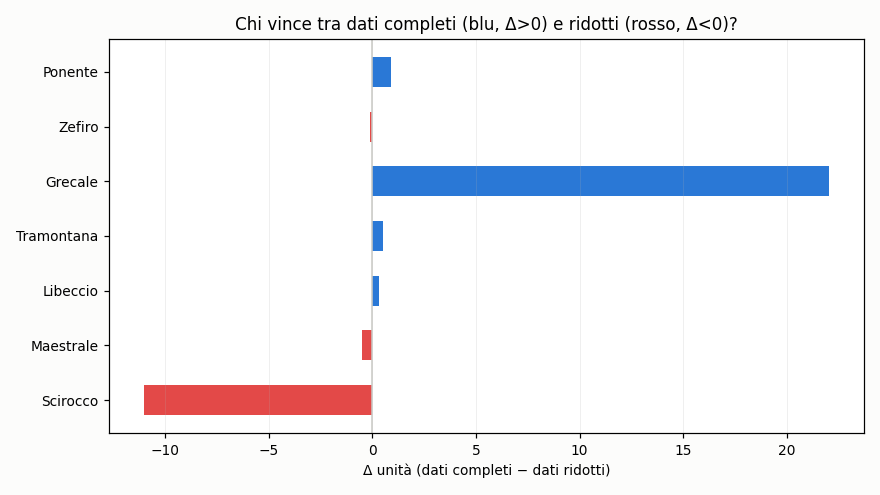
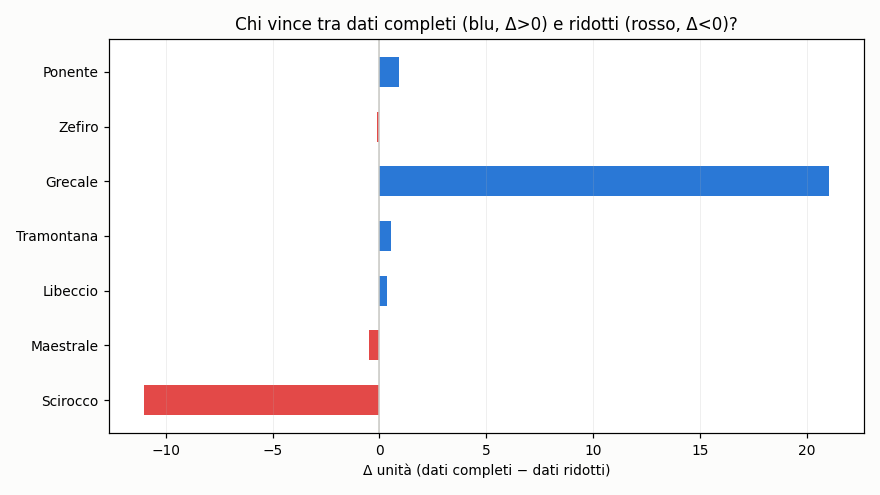
aggiornamento 2026-07-27 18:01 UTC

diff --git a/README.md b/README.md
@@ -37,9 +37,9 @@ scala in unità). Non indichiamo quale.
 
 ## Grafici
 
-![Coppie: dati completi vs ridotti](https://raw.githubusercontent.com/Kitem19/ippica-track-record/main/charts/equity_pairs.png?v=361692e1)
+![Coppie: dati completi vs ridotti](https://raw.githubusercontent.com/Kitem19/ippica-track-record/main/charts/equity_pairs.png?v=13d0af9d)
 
-![Delta per coppia](https://raw.githubusercontent.com/Kitem19/ippica-track-record/main/charts/coppie_delta.png?v=5c75f9a8)
+![Delta per coppia](https://raw.githubusercontent.com/Kitem19/ippica-track-record/main/charts/coppie_delta.png?v=a13e7739)
 
 ### Come leggere i grafici
 
@@ -60,7 +60,7 @@ _Poche giornate: numeri ancora rumorosi, si conclude a fine fase (31/7)._
 - **Maestrale**: in sostanziale pareggio — troppo presto per dire
 - **Libeccio**: in sostanziale pareggio — troppo presto per dire
 - **Tramontana**: in sostanziale pareggio — troppo presto per dire
-- **Grecale**: dati completi avanti di 22,0u
+- **Grecale**: dati completi avanti di 21,0u
 - **Zefiro**: in sostanziale pareggio — troppo presto per dire
 - **Ponente**: in sostanziale pareggio — troppo presto per dire
 
@@ -68,22 +68,22 @@ _Poche giornate: numeri ancora rumorosi, si conclude a fine fase (31/7)._
 
 | Sistema | Cassa (u) | P/L (u) | Selezioni | Escluse | Stato |
 |---|---|---|---|---|---|
-| Grecale | 21,8 | +1,8 | 321 | 4 | 🟢 |
-| Scirocco-B | 11,0 | -9,0 | 250 | 1 | ⏸ |
-| Maestrale-B | 0,0 | -20,0 | 100 | 254 | 🛑 |
-| Ponente | 0,0 | -20,0 | 213 | 37 | 🛑 |
-| Scirocco | 0,0 | -20,1 | 80 | 279 | 🛑 |
+| Grecale | 20,8 | +0,8 | 322 | 4 | 🟢 |
+| Scirocco-B | 11,0 | -9,0 | 250 | 2 | ⏸ |
+| Maestrale-B | 0,0 | -20,0 | 100 | 255 | 🛑 |
+| Ponente | 0,0 | -20,0 | 213 | 38 | 🛑 |
+| Scirocco | 0,0 | -20,1 | 80 | 280 | 🛑 |
 | Grecale-B | 0,0 | -20,2 | 137 | 183 | 🛑 |
-| Tramontana | 0,0 | -20,3 | 45 | 319 | 🛑 |
-| Zefiro-B | 0,0 | -20,5 | 143 | 81 | 🛑 |
-| Maestrale | 0,0 | -20,5 | 104 | 272 | 🛑 |
-| Zefiro | 0,0 | -20,6 | 268 | 15 | 🛑 |
-| Libeccio | 0,0 | -20,6 | 181 | 178 | 🛑 |
-| Tramontana-B | 0,0 | -20,8 | 324 | 27 | 🛑 |
-| Libeccio-B | 0,0 | -20,9 | 119 | 195 | 🛑 |
-| Ponente-B | 0,0 | -21,0 | 63 | 99 | 🛑 |
+| Tramontana | 0,0 | -20,3 | 45 | 320 | 🛑 |
+| Zefiro-B | 0,0 | -20,5 | 143 | 82 | 🛑 |
+| Maestrale | 0,0 | -20,5 | 104 | 273 | 🛑 |
+| Zefiro | 0,0 | -20,6 | 268 | 16 | 🛑 |
+| Libeccio | 0,0 | -20,6 | 181 | 179 | 🛑 |
+| Tramontana-B | 0,0 | -20,8 | 324 | 28 | 🛑 |
+| Libeccio-B | 0,0 | -20,9 | 119 | 196 | 🛑 |
+| Ponente-B | 0,0 | -21,0 | 63 | 100 | 🛑 |
 
-_Aggiornato: 27/07 19:56_
+_Aggiornato: 27/07 20:01_
 ---
 *Nessuna delle informazioni qui pubblicate costituisce consiglio di gioco.
 Il gioco può causare dipendenza — 18+.*
